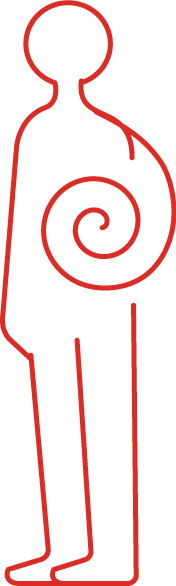
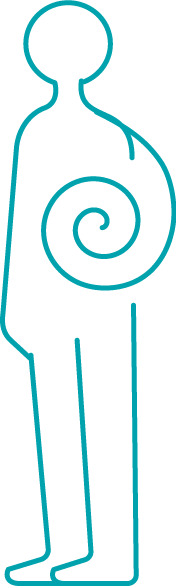
Retake on project

Changed region(s): [[0.0, 0.0, 1.0, 1.0]]

diff --git a/packages/flexim/themes/flexim/dist/css/style.css b/packages/flexim/themes/flexim/dist/css/style.css
@@ -1712,13 +1712,19 @@ mark, .mark {
 .intro {
   display: -webkit-box;
   display: -ms-flexbox;
-  display: flex;
-  -webkit-box-align: center;
-      -ms-flex-align: center;
-          align-items: center; }
-  .intro img {
-    width: 178px;
-    height: 100%; }
+  display: flex; }
+  .intro-image {
+    display: -webkit-box;
+    display: -ms-flexbox;
+    display: flex;
+    -webkit-box-pack: center;
+        -ms-flex-pack: center;
+            justify-content: center;
+    -webkit-box-align: center;
+        -ms-flex-align: center;
+            align-items: center; }
+    .intro-image img {
+      width: 181px; }
   @media screen and (max-width: 767px) {
     .intro img {
       display: block; } }
@@ -1747,11 +1753,11 @@ mark, .mark {
   display: inline-block;
   content: '';
   border-radius: 100%;
-  margin-right: 7px;
+  margin-right: 5px;
   height: 15px;
   width: 15px;
-  background-color: #d1271b;
-  margin-top: 4px; }
+  background-color: #00A3AD;
+  margin-top: 2px; }
 
 .list-vertical ul {
   list-style-type: none; }
@@ -1766,8 +1772,7 @@ mark, .mark {
   margin-right: 7px;
   height: 25px;
   width: 25px;
-  background-color: #d1271b;
-  background-image: url(/flexim/packages/flexim/themes/flexim/dist/images/5cddb0484e0cd0f0d18c8b01a7caa2b1.png); }
+  background-color: #00A3AD; }
 
 @media screen and (max-width: 767px) {
   .list-horizontal li {
@@ -1779,11 +1784,29 @@ mark, .mark {
     height: 20px;
     width: 20px; } }
 
-.method img {
-  width: 105px;
-  height: 100%;
-  margin-top: auto;
-  margin-bottom: auto; }
+.method {
+  display: -webkit-box;
+  display: -ms-flexbox;
+  display: flex;
+  -webkit-box-align: center;
+      -ms-flex-align: center;
+          align-items: center;
+  -webkit-box-pack: center;
+      -ms-flex-pack: center;
+          justify-content: center; }
+  .method .image {
+    display: -webkit-box;
+    display: -ms-flexbox;
+    display: flex;
+    -webkit-box-pack: center;
+        -ms-flex-pack: center;
+            justify-content: center;
+    background-color: green; }
+    .method .image img {
+      width: 105px;
+      height: 100%; }
+  .method .list {
+    background-color: yellow; }
 
 .target {
   display: -webkit-box;

diff --git a/packages/flexim/themes/flexim/assets/scss/_method.scss b/packages/flexim/themes/flexim/assets/scss/_method.scss
@@ -1,18 +1,26 @@
 .method {
-  // display: flex;
-  // align-items: center;
-  // justify-content: center;
+  // background-color: pink;
+  display: flex;
+  align-items: center;
+  justify-content: center;
   // width: 100%;
   
   .image {
-    // display: flex;
-    // justify-content: center;
+    display: flex;
+    justify-content: center;
     // height: 100%;
+    background-color: green;
+    img {
+      width: 105px;
+      height: 100%;
+      // margin-top: auto;
+      // margin-bottom: auto;
+    }
   }
-  img {
-    width: 105px;
-    height: 100%;
-    margin-top: auto;
-    margin-bottom: auto;
+
+  .list {
+    background-color: yellow;
   }
+
+
 }

diff --git a/packages/flexim/themes/flexim/assets/scss/_lists.scss b/packages/flexim/themes/flexim/assets/scss/_lists.scss
@@ -22,11 +22,11 @@
     display: inline-block;
     content: '';
     border-radius: 100%;
-    margin-right: 7px;
+    margin-right: 5px;
     height: 15px;
     width: 15px;
-    background-color: $color-red;
-    margin-top: 4px;
+    background-color: $color-blue;
+    margin-top: 2px;
     // background-image: url(../images/check.png);
     // background-image: url(../images/check.png);
   }
@@ -46,8 +46,8 @@
     margin-right: 7px;
     height: 25px;
     width: 25px;
-    background-color: $color-red;
-    background-image: url(../images/check.png);
+    background-color: $color-blue;
+    // background-image: url(../images/check.png);e
   }
 }
 

diff --git a/packages/flexim/themes/flexim/assets/scss/_intro.scss b/packages/flexim/themes/flexim/assets/scss/_intro.scss
@@ -1,11 +1,21 @@
 .intro {
   display: flex;
-  align-items: center;
+  // align-items: center;
 
-  img {
-    width: 178px;
-    height: 100%;
+  &-text {
+    // background-color: blue; 
   }
+  &-image {
+    // background-color: pink;
+    display: flex;
+    justify-content: center;
+    align-items: center;
+
+    img {
+      width: 181px;
+    }
+  }
+
 
   @media screen and (max-width: $breakpoint-max-sm) {
     img {

diff --git a/packages/flexim/themes/flexim/default.php b/packages/flexim/themes/flexim/default.php
@@ -1,36 +1,39 @@
 <?php Loader::packageElement('header', 'flexim'); ?>
 
 <section class="hero">
-  <img class="path" src="<?php echo $view->getThemePath(); ?>/assets/images/hero.jpg">
+    <img class="path" src="<?php echo $view->getThemePath(); ?>/assets/images/hero.jpg">
 </section>
 
-<section class="intro padding--top-3-steps padding--bottom-3-steps">
-  <div class="grid__container">
+<section class="intro">
+    <div class="grid__container padding--top-3-steps padding--bottom-3-steps ">
 
-    <div class="grid__col--6 grid__col--sm-12">
+        <div class="grid__col--6 grid__col--sm-12">
+            <div class="intro-text">
+                <!-- <?php 
+                    $a = new Area('Oprichting');
+                    $a->display();
+                ?> -->
 
-    <!-- <?php 
-      $a = new Area('Oprichting');
-      $a->display();
-    ?> -->
+                <h3 class="padding--bottom-step">Oprichting</h3>
+                <p>De Flexim Foundation is opgericht op 3 juli 2018 in Dordrecht op initiatief van een aantal medewerkers van Flexim Netherlands.
+                <br />
+                <br />
+                De Flexim Foundation zet zich in voor diverse kwetsbare groepen binnen en buiten de Nederlandse samenleving. Deze kwetsbare groepen worden geholpen om hun levenscondities te verbeteren en toekomstperspectief te vergroten.
+                </p>
+            </div>
+        </div>
 
-      <h3 class="padding--bottom-step">Oprichting</h3>
-      <p>De Flexim Foundation is opgericht op … in Dordrecht op initiatief van een aantal medewerkers van Flexim Netherlands.
-      <br />
-      <br />
-      De Flexim Foundation zet zich in voor diverse kwetsbare groepen binnen en buiten de Nederlandse samenleving. Deze kwetsbare groepen worden geholpen om hun levenscondities te verbeteren en toekomstperspectief te vergroten. 
-      </p>
+        <div class="grid__col--6 grid__col--sm-12">
+            <div class="intro-image">
+                <!-- <?php 
+                $a = new Area('Oprichting Image');
+                $a->display();
+                ?> -->
+                <img class="" src="<?php echo $view->getThemePath(); ?>/assets/images/Tekengebied.png">
+            </div>
+        </div>
+
     </div>
-
-    <div class="grid__col--4 grid__push--2 grid__col--sm-12">
-      <!-- <?php 
-        $a = new Area('Oprichting Image');
-        $a->display();
-      ?> -->
-      <img class="" src="<?php echo $view->getThemePath(); ?>/assets/images/Tekengebied-1.png">
-    </div>
-
-  </div>
 </section>
 
 <!-- <section class="goal">
@@ -62,54 +65,54 @@
   </div>
 </section> -->
 
-<section class="goal bg-blue white clearfix">
-  <div class="grid__container padding--top-3-steps padding--bottom-3-steps text--align-center">
-    
-    <div class="grid__col--8 grid__push--2 grid__col--sm-12">
+<section class="goal bg-blue white">
+    <div class="grid__container padding--top-3-steps padding--bottom-3-steps text--align-center">
 
-    <?php 
-      $a = new Area('Doelstelling');
-      $a->display();
-    ?>
-      <!-- <h3 class="padding--bottom-step">Doelstelling</h3>
-      <p>“De Flexim Foundation stelt zich ten doel de levenscondities en toekomstmogelijkheden van kwetsbare groepen (in de Nederlandse samenleving en daarbuiten) te verbeteren. De Flexim Foundation tracht dit doel te bereiken door financiële ondersteuning van en actieve bijdrage aan de uitvoering van projecten conform het gestelde doel.”</p> -->
+        <div class="grid__col--8 grid__push--2 grid__col--sm-12">
+
+            <!-- <?php 
+                $a = new Area('Doelstelling');
+                $a->display();
+            ?> -->
+
+            <h3 class="padding--bottom-step">Doelstelling</h3>
+            <p>“De Flexim Foundation stelt zich ten doel de levenscondities en toekomstmogelijkheden van kwetsbare groepen (in de Nederlandse samenleving en daarbuiten) te verbeteren. De Flexim Foundation tracht dit doel te bereiken door financiële ondersteuning van en actieve bijdrage aan de uitvoering van projecten conform het gestelde doel.”</p>
+        </div>
     </div>
-  </div>
 </section>
 
 <section class="method">
-  <div class="grid__container padding--top-3-steps padding--bottom-3-steps">
+    <div class="grid__container padding--top-3-steps padding--bottom-3-steps">
 
+        <div class="image grid__col--6 grid__col--sm-12">
+            <!-- <?php 
+            $a = new Area('Method Image');
+            $a->display();
+            ?> -->
 
-    <div class="image grid__col--3 grid__push--2 grid__col--sm-12">
-      <?php 
-        $a = new Area('Method Image');
-        $a->display();
-      ?>
+            <img class="" src="<?php echo $view->getThemePath(); ?>/assets/images/twirl_team.png">
+        </div>
 
-      <!-- <img class="" src="<?php echo $view->getThemePath(); ?>/assets/images/twirl_team.png"> -->
+        <div class="list grid__col--6 grid__col--sm-12">
+
+            <!-- <?php 
+            $a = new Area('Bereikt Door');
+            $a->display();
+            ?> -->
+            <h3 class="padding--bottom-step">Dit wordt bereikt door</h3>
+            <div class="list-horizontal">
+                <ul>
+                    <li>financiële middelen te werven via sponsoring en giften</li>
+                    <li>continuïteit te waarborgen vanuit Flexim Netherlands</li>
+                    <li>werkgevers te motiveren om tijd/arbeid en kennis beschikbaar te stellen door vrijwilligerswerk van hun werknemers</li>
+                    <li>particulieren alsmede instanties in te zetten voor het verwerven van de middelen alsmede beschikbaar stellen van arbeid</li>
+                    <li>medewerkers en klanten van Flexim aan te sporen zich in te zetten bij de activiteiten van de foundation</li>
+                
+                </ul>
+            </div>
+        </div>
+
     </div>
-
-    <div class="grid__col--6 grid__push--1 grid__collapse grid__col--sm-12">
-
-    <?php 
-      $a = new Area('Bereikt Door');
-      $a->display();
-    ?>
-      <!-- <h3 class="padding--bottom-step">Dit wordt bereikt door</h3>
-      <div class="list-horizontal">
-        <ul>
-          <li>financiële middelen te werven via sponsoring en giften</li>
-          <li>continuïteit te waarborgen vanuit Flexim Netherlands</li>
-          <li>werkgevers te motiveren om tijd/arbeid en kennis beschikbaar te stellen door vrijwilligerswerk van hun werknemers</li>
-          <li>particulieren alsmede instanties in te zetten voor het verwerven van de middelen alsmede beschikbaar stellen van arbeid</li>
-          <li>medewerkers en klanten van Flexim aan te sporen zich in te zetten bij de activiteiten van de foundation</li>
-        
-        </ul>
-      </div> -->
-    </div>
-   
-  </div>
 </section>
 
 <section class="target bg-lightgrey">

diff --git a/packages/flexim/elements/footer.php b/packages/flexim/elements/footer.php
@@ -1,7 +1,7 @@
     </div>
   </div>
 
-<section class="footer bg-red">
+<section class="footer bg-blue">
   <div class="grid__container padding--top-2-steps padding--bottom-2-steps">
   </div>
 
